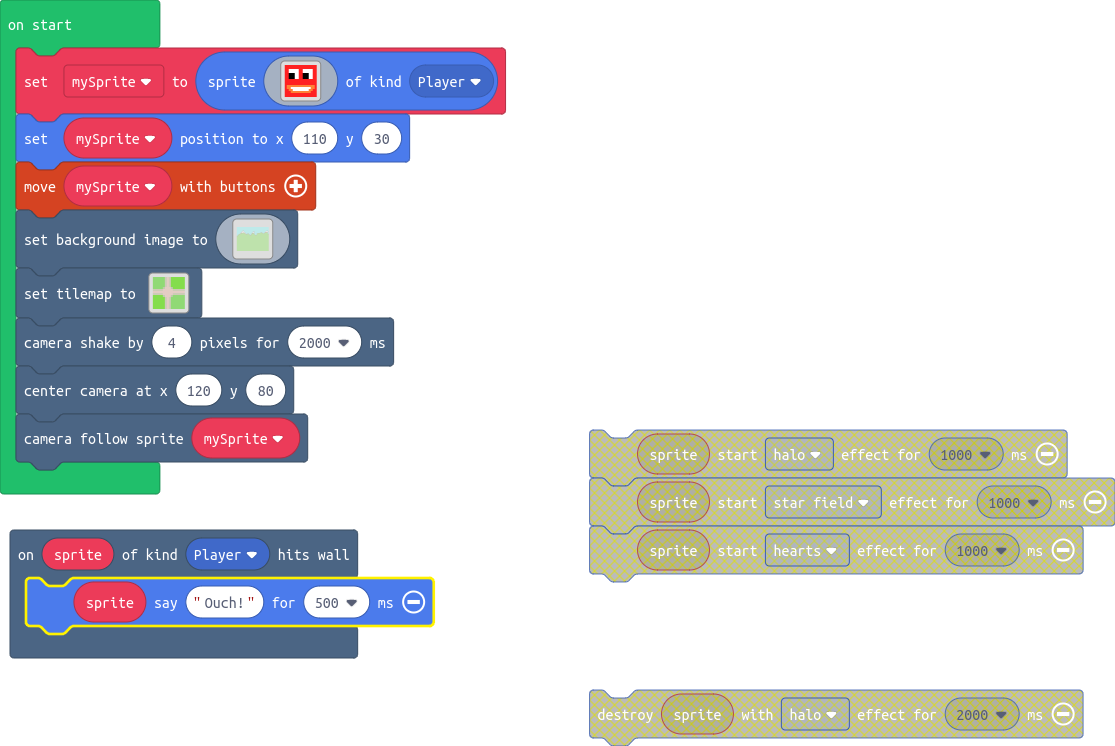
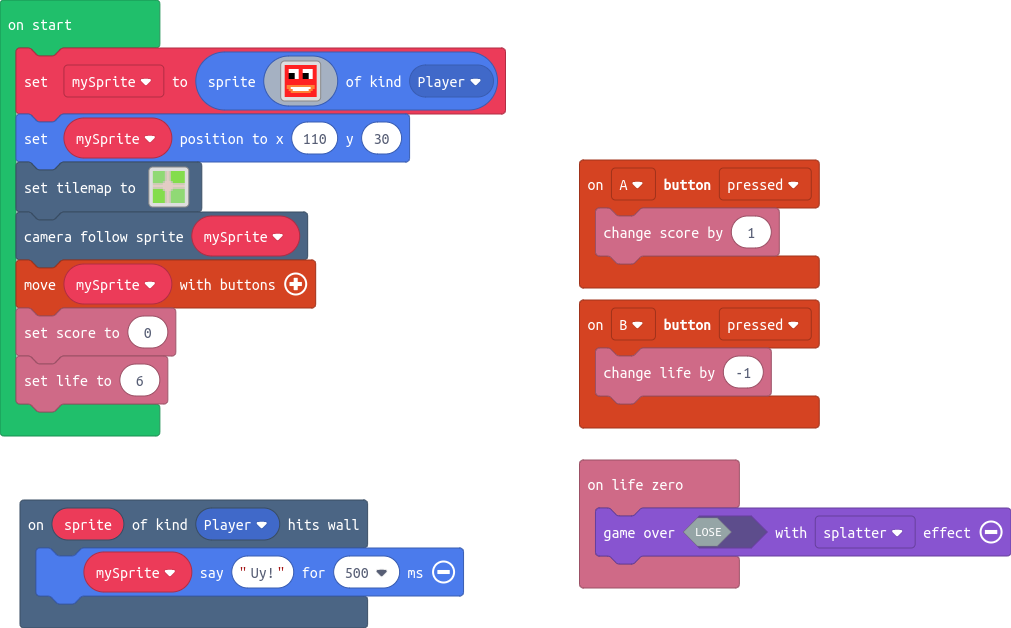
clase 9 - Game Over y puntuación

diff --git a/main.ts b/main.ts
@@ -19,10 +19,20 @@ namespace myTiles {
 . . . . . . . . . . . . . . . . 
 `
 }
-scene.onHitWall(SpriteKind.Player, function (sprite) {
-    sprite.say("Ouch!", 500)
+controller.B.onEvent(ControllerButtonEvent.Pressed, function () {
+    info.changeLifeBy(-1)
 })
-let mySprite = sprites.create(img`
+scene.onHitWall(SpriteKind.Player, function (sprite) {
+    mySprite.say("Uy!", 500)
+})
+controller.A.onEvent(ControllerButtonEvent.Pressed, function () {
+    info.changeScoreBy(1)
+})
+info.onLifeZero(function () {
+    game.over(false, effects.splatter)
+})
+let mySprite: Sprite = null
+mySprite = sprites.create(img`
 2 2 2 2 2 2 2 2 2 2 2 2 2 2 2 2 
 2 2 2 2 2 2 2 2 2 2 2 2 2 2 2 2 
 2 2 1 1 1 1 1 2 2 1 1 1 1 1 2 2 
@@ -41,129 +51,6 @@ let mySprite = sprites.create(img`
 2 2 2 2 2 2 2 2 2 2 2 2 2 2 2 2 
 `, SpriteKind.Player)
 mySprite.setPosition(110, 30)
-controller.moveSprite(mySprite)
-scene.setBackgroundImage(img`
-9 9 9 9 9 9 9 9 9 9 9 9 9 9 9 9 9 9 9 9 9 9 9 9 9 9 9 9 9 9 9 9 9 9 9 9 9 9 9 9 9 9 9 9 9 9 9 9 9 9 9 9 9 9 9 9 9 9 9 9 9 9 9 9 9 9 9 9 9 9 9 9 9 9 9 9 9 9 9 9 9 9 9 9 9 9 9 9 9 9 9 9 9 9 9 9 9 9 9 9 9 9 9 9 9 9 9 9 9 9 9 9 9 9 9 9 9 9 9 9 9 9 9 9 9 9 9 9 9 9 9 9 9 9 9 9 9 9 9 9 9 9 9 9 9 9 9 9 9 9 9 9 9 9 9 9 9 9 9 9 
-9 9 9 9 9 9 9 9 9 9 9 9 9 9 9 9 9 9 9 9 9 9 9 9 9 9 9 9 9 9 9 9 9 9 9 9 9 9 9 9 9 9 9 9 9 9 9 9 9 9 9 9 9 9 9 9 9 9 9 9 9 9 9 9 9 9 9 9 9 9 9 9 9 9 9 9 9 9 9 9 9 9 9 9 9 9 9 9 9 9 9 9 9 9 9 9 9 9 9 9 9 9 9 9 9 9 9 9 9 9 9 9 9 9 9 9 9 9 9 9 9 9 9 9 9 9 9 9 9 9 9 9 9 9 9 9 9 9 9 9 9 9 9 9 9 9 9 9 9 9 9 9 9 9 9 9 9 9 9 9 
-9 9 9 9 9 9 9 9 9 9 9 9 9 9 9 9 9 9 9 9 9 9 9 9 9 9 9 9 9 9 9 9 9 9 9 9 9 9 9 9 9 9 9 9 9 9 9 9 9 9 9 9 9 9 9 9 9 9 9 9 9 9 9 9 9 9 9 9 9 9 9 9 9 9 9 9 9 9 9 9 9 9 9 9 9 9 9 9 9 9 9 9 9 9 9 9 9 9 9 9 9 9 9 9 9 9 9 9 9 9 9 9 9 9 9 9 9 9 9 9 9 9 9 9 9 9 9 9 9 9 9 9 9 9 9 9 9 9 9 9 9 9 9 9 9 9 9 9 9 9 9 9 9 9 9 9 9 9 9 9 
-9 9 9 9 9 9 9 9 9 9 9 9 9 9 9 9 9 9 9 9 9 9 9 9 9 9 9 9 9 9 9 9 9 9 9 9 9 9 9 9 9 9 9 9 9 9 9 9 9 9 9 9 9 9 9 9 9 9 9 9 9 9 9 9 9 9 9 9 9 9 9 9 9 9 9 9 9 9 9 9 9 9 9 9 9 9 9 9 9 9 9 9 9 9 9 9 9 9 9 9 9 9 9 9 9 9 9 9 9 9 9 9 9 9 9 9 9 9 9 9 9 9 9 9 9 9 9 9 9 9 9 9 9 9 9 9 9 9 9 9 9 9 9 9 9 9 9 9 9 9 9 9 9 9 9 9 9 9 9 9 
-9 9 9 9 9 9 9 9 9 9 9 9 9 9 9 9 9 9 9 9 9 9 9 9 9 9 9 9 9 9 9 9 9 9 9 9 9 9 9 9 9 9 9 9 9 9 9 9 9 9 9 9 9 9 9 9 9 9 9 9 9 9 9 9 9 9 9 9 9 9 9 9 9 9 9 9 9 9 9 9 9 9 9 9 9 9 9 9 9 9 9 9 9 9 9 9 9 9 9 9 9 9 9 9 9 9 9 9 9 9 9 9 9 9 9 9 9 9 9 9 9 9 9 9 9 9 9 9 9 9 9 9 9 9 9 9 9 9 9 9 9 9 9 9 9 9 9 9 9 9 9 9 9 9 9 9 9 9 9 9 
-9 9 9 9 9 9 9 9 9 9 9 9 9 9 9 9 9 9 9 9 9 9 9 9 9 9 9 9 9 9 9 9 9 9 9 9 9 9 9 9 9 9 9 9 9 9 9 9 9 9 9 9 9 9 9 9 9 9 9 9 9 9 9 9 9 9 9 9 9 9 9 9 9 9 9 9 9 9 9 9 9 9 9 9 9 9 9 9 9 9 9 9 9 9 9 9 9 9 9 9 9 9 9 9 9 9 9 9 9 9 9 9 9 9 9 9 9 9 9 9 9 9 9 9 9 9 9 9 9 9 9 9 9 9 9 9 9 9 9 9 9 9 9 9 9 9 9 9 9 9 9 9 9 9 9 9 9 9 9 9 
-9 9 9 9 9 9 9 9 9 9 9 9 9 9 9 9 9 9 9 9 9 9 9 9 9 9 9 9 9 9 9 9 9 9 9 9 9 9 9 9 9 9 9 9 9 9 9 9 9 9 9 9 9 9 9 9 9 9 9 9 9 9 9 9 9 9 9 9 9 9 9 9 9 9 9 9 9 9 9 9 9 9 9 9 9 9 9 9 9 9 9 9 9 9 9 9 9 9 9 9 9 9 9 9 9 9 9 9 9 9 9 9 9 9 9 9 9 9 9 9 9 9 9 9 9 9 9 9 9 9 9 9 9 9 9 9 9 9 9 9 9 9 9 9 9 9 9 9 9 9 9 9 9 9 9 9 9 9 9 9 
-9 9 9 9 9 9 9 9 9 9 9 9 9 9 9 9 9 9 9 9 9 9 9 9 9 9 9 9 9 9 9 9 9 9 9 9 9 9 9 9 9 9 9 9 9 9 9 9 9 9 9 9 9 9 9 9 9 9 9 9 9 9 9 9 9 9 9 9 9 9 9 9 9 9 9 9 9 9 9 9 9 9 9 9 9 9 9 9 9 9 9 9 9 9 9 9 9 9 9 9 9 9 9 9 9 9 9 9 9 9 9 9 9 9 9 9 9 9 9 9 9 9 9 9 9 9 9 9 9 9 9 9 9 9 9 9 9 9 9 9 9 9 9 9 9 9 9 9 9 9 9 9 9 9 9 9 9 9 9 9 
-9 9 9 9 9 9 9 9 9 9 9 9 9 9 9 9 9 9 9 9 9 9 9 9 9 9 9 9 9 9 9 9 9 9 9 9 9 9 9 9 9 9 9 9 9 9 9 9 9 9 9 9 9 9 9 9 9 9 9 9 9 9 9 9 9 9 9 9 9 9 9 9 9 9 9 9 9 9 9 9 9 9 9 9 9 9 9 9 9 9 9 9 9 9 9 9 9 9 9 9 9 9 9 9 9 9 9 9 9 9 9 9 9 9 9 9 9 9 9 9 9 9 9 9 9 9 9 9 9 9 9 9 9 9 9 9 9 9 9 9 9 9 9 9 9 9 9 9 9 9 9 9 9 9 9 9 9 9 9 9 
-9 9 9 9 9 9 9 9 9 9 9 9 9 9 9 9 9 9 9 9 9 9 9 9 9 9 9 9 9 9 9 9 9 9 9 9 9 9 9 9 9 9 9 9 9 9 9 9 9 9 9 9 9 9 9 9 9 9 9 9 9 9 9 9 9 9 9 9 9 9 9 9 9 9 9 9 9 9 9 9 9 9 9 9 9 9 9 9 9 9 9 9 9 9 9 9 9 9 9 9 9 9 9 9 9 9 9 9 9 9 9 9 9 9 9 9 9 9 9 9 9 9 9 9 9 9 9 9 9 9 9 9 9 9 9 9 9 9 9 9 9 9 9 9 9 9 9 9 9 9 9 9 9 9 9 9 9 9 9 9 
-9 9 9 9 9 9 9 9 9 9 9 9 9 9 9 9 9 9 9 9 9 9 9 9 9 9 9 9 9 9 9 9 9 9 9 9 9 9 9 9 9 9 9 9 9 9 9 9 9 9 9 9 9 9 9 9 9 9 9 9 9 9 9 9 9 9 9 9 9 9 9 9 9 9 9 9 9 9 9 9 9 9 9 9 9 9 9 9 9 9 9 9 9 9 9 9 9 9 9 9 9 9 9 9 9 9 9 9 9 9 9 9 9 9 9 9 9 9 9 9 9 9 9 9 9 9 9 9 9 9 9 9 9 9 9 9 9 9 9 9 9 9 9 9 9 9 9 9 9 9 9 9 9 9 9 9 9 9 9 9 
-9 9 9 9 9 9 9 9 9 9 9 9 9 9 9 9 9 9 9 9 9 9 9 9 9 9 9 9 9 9 9 9 9 9 9 9 9 9 9 9 9 9 9 9 9 9 9 9 9 9 9 9 9 9 9 9 9 9 9 9 9 9 9 9 9 9 9 9 9 9 9 9 9 9 9 9 9 9 9 9 9 9 9 9 9 9 9 9 9 9 9 9 9 9 9 9 9 9 9 9 9 9 9 9 9 9 9 9 9 9 9 9 9 9 9 9 9 9 9 9 9 9 9 9 9 9 9 9 9 9 9 9 9 9 9 9 9 9 9 9 9 9 9 9 9 9 9 9 9 9 9 9 9 9 9 9 9 9 9 9 
-9 9 9 9 9 9 9 9 9 9 9 9 9 9 9 9 9 9 9 9 9 9 9 9 9 9 9 9 9 9 9 9 9 9 9 9 9 9 9 9 9 9 9 9 9 9 9 9 9 9 9 9 9 9 9 9 9 9 9 9 9 9 9 9 9 9 9 9 9 9 9 9 9 9 9 9 9 9 9 9 9 9 9 9 9 9 9 9 9 9 9 9 9 9 9 9 9 9 9 9 9 9 9 9 9 9 9 9 9 9 9 9 9 9 9 9 9 9 9 9 9 9 9 9 9 9 9 9 9 9 9 9 9 9 9 9 9 9 9 9 9 9 9 9 9 9 9 9 9 9 9 9 9 9 9 9 9 9 9 9 
-9 9 9 9 9 9 9 9 9 9 9 9 9 9 9 9 9 9 9 9 9 9 9 9 9 9 9 9 9 9 9 9 9 9 9 9 9 9 9 9 9 9 9 9 9 9 9 9 9 9 9 9 9 9 9 9 9 9 9 9 9 9 9 9 9 9 9 9 9 9 9 9 9 9 9 9 9 9 9 9 9 9 9 9 9 9 9 9 9 9 9 9 9 9 9 9 9 9 9 9 9 9 9 9 9 9 9 9 9 9 9 9 9 9 9 9 9 9 9 9 9 9 9 9 9 9 9 9 9 9 9 9 9 9 9 9 9 9 9 9 9 9 9 9 9 9 9 9 9 9 9 9 9 9 9 9 9 9 9 9 
-9 9 9 9 9 9 9 9 9 9 9 9 9 9 9 9 9 9 9 9 9 9 9 9 9 9 9 9 9 9 9 9 9 9 9 9 9 9 9 9 9 9 9 9 9 9 9 9 9 9 9 9 9 9 9 9 9 9 9 9 9 9 9 9 9 9 9 9 9 9 9 9 9 9 9 9 9 9 9 9 9 9 9 9 9 9 9 9 9 9 9 9 9 9 9 9 9 9 9 9 9 9 9 9 9 9 9 9 9 9 9 9 9 9 9 9 9 9 9 9 9 9 9 9 9 9 9 9 9 9 9 9 9 9 9 9 9 9 9 9 9 9 9 9 9 9 9 9 9 9 9 9 9 9 9 9 9 9 9 9 
-9 9 9 9 9 9 9 9 9 9 9 9 9 9 9 9 9 9 9 9 9 9 9 9 9 9 9 9 9 9 9 9 9 9 9 9 9 9 9 9 9 9 9 9 9 9 9 9 9 9 9 9 9 9 9 9 9 9 9 9 9 9 9 9 9 9 9 9 9 9 9 9 9 9 9 9 9 9 9 9 9 9 9 9 9 9 9 9 9 9 9 9 9 9 9 9 9 9 9 9 9 9 9 9 9 9 9 9 9 9 9 9 9 9 9 9 9 9 9 9 9 9 9 9 9 9 9 9 9 9 9 9 9 9 9 9 9 9 9 9 9 9 9 9 9 9 9 9 9 9 9 9 9 9 9 9 9 9 9 9 
-9 9 9 9 9 9 9 9 9 9 9 9 9 9 9 9 9 9 9 9 9 9 9 9 9 9 9 9 9 9 9 9 9 9 9 9 9 9 9 9 9 9 9 9 9 9 9 9 9 9 9 9 9 9 9 9 9 9 9 9 9 9 9 9 9 9 9 9 9 9 9 9 9 9 9 9 9 9 9 9 9 9 9 9 9 9 9 9 9 9 9 9 9 9 9 9 9 9 9 9 9 9 9 9 9 9 9 9 9 9 9 9 9 9 9 9 9 9 9 9 9 9 9 9 9 9 9 9 9 9 9 9 9 9 9 9 9 9 9 9 9 9 9 9 9 9 9 9 9 9 9 9 9 9 9 9 9 9 9 9 
-9 9 9 9 9 9 9 9 9 9 9 9 9 9 9 9 9 9 9 9 9 9 9 9 9 9 9 9 9 9 9 9 9 e 9 9 9 9 9 9 9 9 9 9 9 9 9 9 9 9 9 9 9 9 9 9 9 9 9 9 9 9 9 9 9 9 9 9 9 9 9 9 9 9 9 9 9 9 9 9 9 9 9 9 9 9 9 9 9 9 9 9 9 9 9 9 9 9 9 9 9 9 9 9 9 9 9 9 9 9 9 9 9 9 9 9 9 9 9 9 9 9 9 9 9 9 9 9 9 9 9 9 9 9 9 9 9 9 9 9 9 9 9 9 9 9 9 9 9 9 e e 9 9 9 9 9 9 9 9 
-9 9 9 9 9 9 9 9 9 9 9 9 9 9 9 9 9 9 9 9 9 9 9 9 9 9 9 9 9 9 9 e e 1 e 9 9 9 9 9 9 9 9 9 9 9 9 9 9 9 9 9 9 9 9 9 9 9 9 9 9 9 9 9 9 9 9 9 9 9 9 9 9 9 9 9 9 9 9 9 9 9 9 9 9 9 9 9 9 9 9 9 9 9 9 9 9 9 9 9 9 9 9 9 9 9 9 9 9 9 9 9 9 9 9 9 9 9 9 9 9 9 9 9 9 9 9 9 9 9 9 9 9 9 9 9 9 9 9 9 9 9 9 9 9 9 9 9 9 e e e 9 9 9 9 9 9 9 9 
-9 9 9 9 9 9 9 9 9 9 9 9 9 9 9 9 9 9 9 9 9 9 9 9 9 9 9 9 9 9 e e 1 1 e 9 9 9 9 9 9 9 9 9 9 9 9 9 9 9 9 9 9 9 9 9 9 9 9 9 9 9 9 9 9 9 9 9 9 9 9 9 9 9 9 9 9 9 9 9 9 9 9 9 9 9 9 9 9 9 9 9 9 9 9 9 9 9 9 9 9 9 9 9 9 9 9 9 9 9 9 9 9 9 9 9 9 9 9 9 9 9 9 9 9 9 9 9 9 9 9 9 9 9 9 9 9 9 9 9 9 9 9 9 9 9 9 9 e 1 1 1 e e e 9 9 9 9 9 
-9 9 9 9 9 9 9 9 9 9 9 9 9 9 9 9 9 9 9 9 9 9 9 9 9 9 9 9 9 e 1 1 1 1 e 9 9 9 9 9 9 9 9 9 9 9 9 9 9 9 9 9 9 9 9 9 9 9 9 9 9 9 9 9 9 9 9 9 9 9 9 9 9 9 9 9 9 9 9 9 9 9 9 9 9 9 9 9 9 9 9 9 9 9 9 9 9 9 9 9 9 9 9 9 9 9 9 9 9 9 9 9 9 9 9 9 9 9 9 9 9 9 9 9 9 9 9 9 9 9 9 9 9 9 9 9 9 9 9 9 9 9 9 9 9 9 9 e 1 1 1 1 1 1 e e 9 9 9 9 
-9 9 9 9 9 9 9 9 9 9 9 9 9 9 9 9 9 9 9 9 9 9 9 9 9 9 9 9 e 1 1 1 1 1 1 e 9 9 9 9 9 9 9 9 9 9 9 9 9 9 9 9 9 9 9 9 9 9 9 9 9 9 9 9 9 9 9 9 9 9 9 9 9 9 9 9 9 9 9 9 9 9 9 9 9 9 9 9 9 9 9 9 9 9 9 9 9 9 9 9 9 9 9 9 9 9 9 9 9 9 9 9 9 9 9 9 9 9 9 9 9 9 9 9 9 9 9 9 9 9 9 9 9 9 9 9 9 9 9 9 9 9 9 9 9 9 e 1 1 1 1 1 1 1 1 e 9 9 9 9 
-9 9 9 9 9 9 9 9 9 9 9 9 9 9 9 9 9 9 9 9 9 9 9 9 9 9 9 e 1 1 1 1 1 1 1 e 9 9 9 9 9 9 9 9 9 9 9 9 9 9 9 9 9 9 9 9 9 9 9 9 9 9 9 9 9 9 9 9 9 9 9 9 9 9 9 9 9 9 9 9 9 9 9 9 9 e e e 9 9 9 9 9 9 9 9 9 9 9 9 9 9 9 9 9 9 9 9 9 9 9 9 9 9 9 9 9 9 9 9 9 9 9 9 9 9 9 9 9 9 9 9 9 9 9 9 9 9 9 9 9 9 9 9 9 e 1 1 1 1 1 1 1 1 1 1 e 9 9 9 
-9 9 9 9 9 9 9 9 9 9 9 9 9 9 9 9 9 9 9 9 9 9 9 9 9 e e 1 1 1 1 1 1 1 1 e 9 9 9 9 9 9 9 9 9 9 9 9 9 9 9 9 9 9 9 9 9 9 9 9 9 9 9 9 9 9 9 9 9 9 9 9 9 9 9 9 9 9 9 9 9 9 e e e 1 1 e 9 9 9 9 9 9 9 9 9 9 9 9 9 9 9 9 9 9 9 9 9 9 9 9 9 9 9 9 9 9 9 9 9 9 9 9 9 9 9 9 9 9 9 9 9 9 9 9 9 9 9 9 9 9 9 9 e 1 1 1 1 1 1 1 1 1 1 1 e 9 9 9 
-9 9 9 9 9 9 9 9 9 9 9 9 9 9 9 9 9 9 9 9 9 9 9 9 e 1 1 1 1 1 1 1 1 1 1 1 e 9 9 9 9 9 9 9 9 9 9 9 9 9 9 9 9 9 9 9 9 9 9 9 9 9 9 9 9 9 9 9 9 9 9 9 9 9 9 9 9 9 9 9 e e e 1 1 1 1 e 9 9 9 9 9 9 9 9 9 9 9 9 9 9 9 9 9 9 9 9 9 9 9 9 9 9 9 9 9 9 9 9 9 9 9 9 9 9 9 9 9 9 9 9 9 9 9 9 9 9 9 9 9 9 9 e 1 1 1 1 1 1 1 1 1 1 1 1 e 9 9 9 
-9 9 9 9 9 9 9 9 9 9 9 9 9 9 9 9 9 9 9 9 9 9 9 9 e 1 1 1 1 1 1 1 1 1 1 1 e e 9 9 9 9 9 9 9 9 9 9 9 9 9 9 9 9 9 9 9 9 9 9 9 9 9 9 9 9 9 9 9 9 9 9 9 9 9 9 9 9 9 9 e 1 1 1 1 1 1 e 9 9 9 9 9 9 9 9 9 9 9 9 9 9 9 9 9 9 9 9 9 9 9 9 9 9 9 9 9 9 9 9 9 9 9 9 9 9 9 9 9 9 9 9 9 9 9 9 9 9 9 9 9 9 e 1 1 1 1 1 1 1 1 1 1 1 1 e 9 9 9 9 
-9 9 9 9 9 9 9 9 9 9 9 9 9 9 9 9 9 9 9 9 9 9 9 e e 1 1 1 1 1 1 1 1 1 1 1 1 e e 9 9 9 9 9 9 9 9 9 9 9 9 9 9 9 9 9 9 9 9 9 9 9 9 9 9 9 9 9 9 9 9 9 9 9 9 9 9 9 9 e 1 1 1 1 1 1 1 e 9 9 9 9 9 9 9 9 9 9 9 9 9 9 9 9 9 9 9 9 9 9 9 9 9 9 9 9 9 9 9 9 9 9 9 e e e 9 9 9 9 9 9 9 9 9 9 9 9 9 9 9 e e 1 1 1 e e e e e 1 e e 1 e 9 9 9 9 
-9 9 9 9 9 9 9 9 9 9 9 9 9 9 9 9 9 9 9 9 9 9 e e 1 1 1 1 1 1 1 1 1 1 1 1 1 1 1 e e 9 9 9 9 9 9 9 9 9 9 9 9 9 9 9 9 9 9 9 9 9 9 9 9 9 9 9 9 9 9 9 9 9 9 9 9 9 9 e 1 1 1 1 1 1 e 9 9 9 9 9 9 9 9 9 9 9 9 9 9 9 9 9 9 9 9 9 9 9 9 9 9 9 9 9 9 9 9 9 9 9 e 7 7 e 9 9 9 9 9 9 9 9 9 9 9 9 9 9 e e e 1 1 e e 7 7 7 e e 7 e e e 9 9 9 9 
-9 9 9 9 9 9 9 9 9 9 9 9 9 9 9 9 9 9 9 9 9 9 e 1 1 1 1 1 1 1 1 e e e 1 1 1 1 1 1 1 e 9 9 9 9 9 9 9 9 9 9 9 9 9 9 9 9 9 9 9 9 9 9 9 9 9 9 9 9 9 9 9 9 9 9 9 9 e 1 1 1 1 1 1 1 e 9 9 9 9 9 9 9 9 9 9 9 9 9 9 9 9 9 9 9 9 9 9 9 9 9 9 9 9 9 9 9 9 e e e e 7 7 7 e 9 9 9 9 9 9 9 9 9 9 9 9 e e e e e e e 7 7 7 7 7 7 7 7 e 9 9 9 9 9 
-9 9 9 9 9 9 9 9 9 9 9 9 9 9 9 9 9 9 9 9 9 e 1 1 1 1 1 1 1 e e 7 7 e e e 1 1 1 1 1 1 e 9 9 9 9 9 9 9 9 9 9 9 9 9 9 9 9 9 9 9 9 9 9 9 9 9 9 9 9 9 9 9 9 9 9 e 1 1 1 1 1 1 1 1 e 9 9 9 9 9 9 9 9 9 9 9 9 9 9 9 9 9 9 9 9 9 9 9 9 9 9 9 9 e e e e 7 7 7 7 7 7 7 7 e 9 9 9 9 9 9 9 9 9 9 e e e 7 7 7 7 7 7 7 7 7 7 7 7 7 e 9 9 9 9 9 
-9 9 9 9 9 9 9 9 9 9 9 9 9 9 9 9 9 9 9 9 e e 1 1 1 1 1 e e 7 7 7 7 7 7 e e 1 1 1 1 1 1 e 9 9 9 9 9 9 9 9 9 9 9 9 9 9 9 9 9 9 9 9 9 9 9 9 9 9 9 9 9 9 9 9 e e e 1 1 1 1 e e e e 9 9 9 9 9 9 9 9 9 9 9 9 9 9 9 9 9 9 9 9 9 9 9 9 9 9 e e 7 7 7 7 7 7 7 7 7 7 7 7 7 e 9 9 9 9 9 9 9 9 9 e 7 7 7 7 7 7 7 7 7 7 7 7 7 7 7 7 e 9 9 9 9 
-9 9 9 9 9 9 9 9 9 9 9 9 9 9 9 9 9 9 9 e 1 e e e e e e e 7 7 7 7 7 7 7 7 e e e e e 1 1 1 e 9 9 9 9 9 9 9 9 9 9 9 9 9 9 9 9 9 9 9 9 9 9 9 9 9 9 9 9 9 9 e e e e e 1 1 e e 7 7 e 9 9 9 9 9 9 9 9 9 9 9 9 9 9 9 9 9 e e e e e e e e e 7 7 7 7 7 7 7 7 7 7 7 7 7 7 7 e e 9 9 9 9 9 9 9 e 7 7 7 7 7 7 7 7 7 7 7 7 7 7 7 7 7 e 9 9 9 9 
-9 9 9 9 9 9 9 9 9 9 9 9 9 9 9 9 9 9 e 1 e e 7 7 7 7 7 7 7 7 7 7 7 7 7 7 7 7 7 7 e e 1 1 e 9 9 9 9 9 9 9 9 9 e e e e 9 9 9 9 9 9 9 9 9 9 9 9 9 9 9 9 9 e 7 7 7 e e e e 7 7 7 e 9 9 9 9 9 9 9 9 9 9 9 9 9 9 9 e e 7 7 7 7 7 7 7 7 7 7 7 7 7 7 7 7 7 7 7 7 7 7 7 7 7 e e 9 9 9 e e e 7 7 7 7 7 7 7 7 7 7 7 7 7 7 7 7 7 7 7 e 9 9 9 
-9 9 9 9 9 9 9 9 9 9 9 9 9 9 9 9 9 e e e e 7 7 7 7 7 7 7 7 7 7 7 7 7 7 7 7 7 7 7 7 7 e e e 9 9 9 9 9 9 9 9 e e 7 7 7 e 9 9 9 9 9 9 9 9 9 9 9 9 9 9 9 e 7 7 7 7 7 7 7 7 7 7 7 e 9 9 9 9 9 9 9 9 9 9 9 9 9 9 e 7 7 7 7 7 7 7 7 7 7 7 7 7 7 7 7 7 7 7 7 7 7 7 7 7 7 7 7 7 e e e 7 7 7 7 7 7 7 7 7 7 7 7 7 7 7 7 7 7 7 7 7 7 e 9 9 9 
-9 9 9 9 9 9 9 9 9 9 9 9 9 9 9 9 e 7 7 7 7 7 7 7 7 7 7 7 7 7 7 7 7 7 7 7 7 7 7 7 7 7 7 7 7 e 9 9 9 9 9 9 e e 7 7 7 7 7 e 9 9 9 9 9 9 9 9 9 9 9 9 9 9 e 7 7 7 7 7 7 7 7 7 7 7 e e 9 9 9 9 9 9 9 9 9 9 9 9 9 e 7 7 7 7 7 7 7 7 7 7 7 7 7 7 7 7 7 7 7 7 7 7 7 7 7 7 7 7 7 7 7 7 7 7 7 7 7 7 7 7 7 7 7 7 7 7 7 7 7 7 7 7 7 7 e 9 9 9 
-9 9 9 9 9 9 9 9 9 9 9 9 9 9 e e 7 7 7 7 7 7 7 7 7 7 7 7 7 7 7 7 7 7 7 7 7 7 7 7 7 7 7 7 7 e e 9 9 9 9 9 e 7 7 7 7 7 7 7 e 9 9 9 9 9 9 9 9 9 9 9 9 e 7 7 7 7 7 7 7 7 7 7 7 7 7 7 e 9 9 9 9 9 9 9 9 9 9 9 e 7 7 7 7 7 7 7 7 7 7 7 7 7 7 7 7 7 7 7 7 7 7 7 7 7 7 7 7 7 7 7 7 7 7 7 7 7 7 7 7 7 7 7 7 7 7 7 7 7 7 7 7 7 7 7 7 e 9 9 
-9 9 9 9 9 9 9 9 9 e e e e e 7 7 7 7 7 7 7 7 7 7 7 7 7 7 7 7 7 7 7 7 7 7 7 7 7 7 7 7 7 7 7 7 e e 9 9 9 e 7 7 7 7 7 7 7 7 7 e 9 9 9 9 9 9 9 9 9 9 e e 7 7 7 7 7 7 7 7 7 7 7 7 7 7 e e 9 9 9 9 9 9 9 9 9 9 e 7 7 7 7 7 7 7 7 7 7 7 7 7 7 7 7 7 7 7 7 7 7 7 7 7 7 7 7 7 7 7 7 7 7 7 7 7 7 7 7 7 7 7 7 7 7 7 7 7 7 7 7 7 7 7 7 7 e 9 
-9 9 9 9 9 9 9 9 9 e 7 7 7 7 7 7 7 7 7 7 7 7 7 7 7 7 7 7 7 7 7 7 7 7 7 7 7 7 7 7 7 7 7 7 7 7 7 e e 9 9 e 7 7 7 7 7 7 7 7 7 7 e 9 9 9 9 9 9 9 9 9 e 7 7 7 7 7 7 7 7 7 7 7 7 7 7 7 7 e 9 9 9 9 9 9 9 9 9 e 7 7 7 7 7 7 7 7 7 7 7 7 7 7 7 7 7 7 7 7 7 7 7 7 7 7 7 7 7 7 7 7 7 7 7 7 7 7 7 7 7 7 7 7 7 7 7 7 7 7 7 7 7 7 7 7 7 7 7 e 
-9 9 9 9 9 9 9 9 e 7 7 7 7 7 7 7 7 7 7 7 7 7 7 7 7 7 7 7 7 7 7 7 7 7 7 7 7 7 7 7 7 7 7 7 7 7 7 7 e 9 e 7 7 7 7 7 7 7 7 7 7 7 e e 9 9 9 9 9 9 9 9 e 7 7 7 7 7 7 7 7 7 7 7 7 7 7 7 7 7 e 9 9 9 9 9 9 9 9 e 7 7 7 7 7 7 7 7 7 7 7 7 7 7 7 7 7 7 7 7 7 7 7 7 7 7 7 7 7 7 7 7 7 7 7 7 7 7 7 7 7 7 7 7 7 7 7 7 7 7 7 7 7 7 7 7 7 7 7 e 
-9 9 9 9 9 9 9 e 7 7 7 7 7 7 7 7 7 7 7 7 7 7 7 7 7 7 7 7 7 7 7 7 7 7 7 7 7 7 7 7 7 7 7 7 7 7 7 7 7 e 7 7 7 7 7 7 7 7 7 7 7 7 7 7 e 9 9 9 9 9 9 e 7 7 7 7 7 7 7 7 7 7 7 7 7 7 7 7 7 7 7 e 9 9 9 9 9 9 e 7 7 7 7 7 7 7 7 7 7 7 7 7 7 7 7 7 7 7 7 7 7 7 7 7 7 7 7 7 7 7 7 7 7 7 7 7 7 7 7 7 7 7 7 7 7 7 7 7 7 7 7 7 7 7 7 7 7 7 7 7 
-9 9 9 9 9 9 e e 7 7 7 7 7 7 7 7 7 7 7 7 7 7 7 7 7 7 7 7 7 7 7 7 7 7 7 7 7 7 7 7 7 7 7 7 7 7 7 7 7 7 7 7 7 7 7 7 7 7 7 7 7 7 7 7 7 e 9 9 9 9 e e 7 7 7 7 7 7 7 7 7 7 7 7 7 7 7 7 7 7 7 e e 9 9 9 9 9 e 7 7 7 7 7 7 7 7 7 7 7 7 7 7 7 7 7 7 7 7 7 7 7 7 7 7 7 7 7 7 7 7 7 7 7 7 7 7 7 7 7 7 7 7 7 7 7 7 7 7 7 7 7 7 7 7 7 7 7 7 7 
-9 9 9 9 9 e e 7 7 7 7 7 7 7 7 7 7 7 7 7 7 7 7 7 7 7 7 7 7 7 7 7 7 7 7 7 7 7 7 7 7 7 7 7 7 7 7 7 7 7 7 7 7 7 7 7 7 7 7 7 7 7 7 7 7 e e 9 9 9 e 7 7 7 7 7 7 7 7 7 7 7 7 7 7 7 7 7 7 7 7 7 7 e 9 9 9 e 7 7 7 7 7 7 7 7 7 7 7 7 7 7 7 7 7 7 7 7 7 7 7 7 7 7 7 7 7 7 7 7 7 7 7 7 7 7 7 7 7 7 7 7 7 7 7 7 7 7 7 7 7 7 7 7 7 7 7 7 7 7 
-9 9 9 9 e e 7 7 7 7 7 7 7 7 7 7 7 7 7 7 7 7 7 7 7 7 7 7 7 7 7 7 7 7 7 7 7 7 7 7 7 7 7 7 7 7 7 7 7 7 7 7 7 7 7 7 7 7 7 7 7 7 7 7 7 7 7 e e e 7 7 7 7 7 7 7 7 7 7 7 7 7 7 7 7 7 7 7 7 7 7 7 7 e 9 e e 7 7 7 7 7 7 7 7 7 7 7 7 7 7 7 7 7 7 7 7 7 7 7 7 7 7 7 7 7 7 7 7 7 7 7 7 7 7 7 7 7 7 7 7 7 7 7 7 7 7 7 7 7 7 7 7 7 7 7 7 7 7 
-9 9 9 e e 7 7 7 7 7 7 7 7 7 7 7 7 7 7 7 7 7 7 7 7 7 7 7 7 7 7 7 7 7 7 7 7 7 7 7 7 7 7 7 7 7 7 7 7 7 7 7 7 7 7 7 7 7 7 7 7 7 7 7 7 7 7 7 7 7 7 7 7 7 7 7 7 7 7 7 7 7 7 7 7 7 7 7 7 7 7 7 7 7 7 e e 7 7 7 7 7 7 7 7 7 7 7 7 7 7 7 7 7 7 7 7 7 7 7 7 7 7 7 7 7 7 7 7 7 7 7 7 7 7 7 7 7 7 7 7 7 7 7 7 7 7 7 7 7 7 7 7 7 7 7 7 7 7 7 
-9 9 9 e 7 7 7 7 7 7 7 7 7 7 7 7 7 7 7 7 7 7 7 7 7 7 7 7 7 7 7 7 7 7 7 7 7 7 7 7 7 7 7 7 7 7 7 7 7 7 7 7 7 7 7 7 7 7 7 7 7 7 7 7 7 7 7 7 7 7 7 7 7 7 7 7 7 7 7 7 7 7 7 7 7 7 7 7 7 7 7 7 7 7 7 7 7 7 7 7 7 7 7 7 7 7 7 7 7 7 7 7 7 7 7 7 7 7 7 7 7 7 7 7 7 7 7 7 7 7 7 7 7 7 7 7 7 7 7 7 7 7 7 7 7 7 7 7 7 7 7 7 7 7 7 7 7 7 7 7 
-9 9 e 7 7 7 7 7 7 7 7 7 7 7 7 7 7 7 7 7 7 7 7 7 7 7 7 7 7 7 7 7 7 7 7 7 7 7 7 7 7 7 7 7 7 7 7 7 7 7 7 7 7 7 7 7 7 7 7 7 7 7 7 7 7 7 7 7 7 7 7 7 7 7 7 7 7 7 7 7 7 7 7 7 7 7 7 7 7 7 7 7 7 7 7 7 7 7 7 7 7 7 7 7 7 7 7 7 7 7 7 7 7 7 7 7 7 7 7 7 7 7 7 7 7 7 7 7 7 7 7 7 7 7 7 7 7 7 7 7 7 7 7 7 7 7 7 7 7 7 7 7 7 7 7 7 7 7 7 7 
-9 9 e 7 7 7 7 7 7 7 7 7 7 7 7 7 7 7 7 7 7 7 7 7 7 7 7 7 7 7 7 7 7 7 7 7 7 7 7 7 7 7 7 7 7 7 7 7 7 7 7 7 7 7 7 7 7 7 7 7 7 7 7 7 7 7 7 7 7 7 7 7 7 7 7 7 7 7 7 7 7 7 7 7 7 7 7 7 7 7 7 7 7 7 7 7 7 7 7 7 7 7 7 7 7 7 7 7 7 7 7 7 7 7 7 7 7 7 7 7 7 7 7 7 7 7 7 7 7 7 7 7 7 7 7 7 7 7 7 7 7 7 7 7 7 7 7 7 7 7 7 7 7 7 7 7 7 7 7 7 
-9 e 7 7 7 7 7 7 7 7 7 7 7 7 7 7 7 7 7 7 7 7 7 7 7 7 7 7 7 7 7 7 7 7 7 7 7 7 7 7 7 7 7 7 7 7 7 7 7 7 7 7 7 7 7 7 7 7 7 7 7 7 7 7 7 7 7 7 7 7 7 7 7 7 7 7 7 7 7 7 7 7 7 7 7 7 7 7 7 7 7 7 7 7 7 7 7 7 7 7 7 7 7 7 7 7 7 7 7 7 7 7 7 7 7 7 7 7 7 7 7 7 7 7 7 7 7 7 7 7 7 7 7 7 7 7 7 7 7 7 7 7 7 7 7 7 7 7 7 7 7 7 7 7 7 7 7 7 7 7 
-e e 7 7 7 7 7 7 7 7 7 7 7 7 7 7 7 7 7 7 7 7 7 7 7 7 7 7 7 7 7 7 7 7 7 7 7 7 7 7 7 7 7 7 7 7 7 7 7 7 7 7 7 7 7 7 7 7 7 7 7 7 7 7 7 7 7 7 7 7 7 7 7 7 7 7 7 7 7 7 7 7 7 7 7 7 7 7 7 7 7 7 7 7 7 7 7 7 7 7 7 7 7 7 7 7 7 7 7 7 7 7 7 7 7 7 7 7 7 7 7 7 7 7 7 7 7 7 7 7 7 7 7 7 7 7 7 7 7 7 7 7 7 7 7 7 7 7 7 7 7 7 7 7 7 7 7 7 7 7 
-e 7 7 7 7 7 7 7 7 7 7 7 7 7 7 7 7 7 7 7 7 7 7 7 7 7 7 7 7 7 7 7 7 7 7 7 7 7 7 7 7 7 7 7 7 7 7 7 7 7 7 7 7 7 7 7 7 7 7 7 7 7 7 7 7 7 7 7 7 7 7 7 7 7 7 7 7 7 7 7 7 7 7 7 7 7 7 7 7 7 7 7 7 7 7 7 7 7 7 7 7 7 7 7 7 7 7 7 7 7 7 7 7 7 7 7 7 7 7 7 7 7 7 7 7 7 7 7 7 7 7 7 7 7 7 7 7 7 7 7 7 7 7 7 7 7 7 7 7 7 7 7 7 7 7 7 7 7 7 7 
-7 7 7 7 7 7 7 7 7 7 7 7 7 7 7 7 7 7 7 7 7 7 7 7 7 7 7 7 7 7 7 7 7 7 7 7 7 7 7 7 7 7 7 7 7 7 7 7 7 7 7 7 7 7 7 7 7 7 7 7 7 7 7 7 7 7 7 7 7 7 7 7 7 7 7 7 7 7 7 7 7 7 7 7 7 7 7 7 7 7 7 7 7 7 7 7 7 7 7 7 7 7 7 7 7 7 7 7 7 7 7 7 7 7 7 7 7 7 7 7 7 7 7 7 7 7 7 7 7 7 7 7 7 7 7 7 7 7 7 7 7 7 7 7 7 7 7 7 7 7 7 7 7 7 7 7 7 7 7 7 
-7 7 7 7 7 7 7 7 7 7 7 7 7 7 7 7 7 7 7 7 7 7 7 7 7 7 7 7 7 7 7 7 7 7 7 7 7 7 7 7 7 7 7 7 7 7 7 7 7 7 7 7 7 7 7 7 7 7 7 7 7 7 7 7 7 7 7 7 7 7 7 7 7 7 7 7 7 7 7 7 7 7 7 7 7 7 7 7 7 7 7 7 7 7 7 7 7 7 7 7 7 7 7 7 7 7 7 7 7 7 7 7 7 7 7 7 7 7 7 7 7 7 7 7 7 7 7 7 7 7 7 7 7 7 7 7 7 7 7 7 7 7 7 7 7 7 7 7 7 7 7 7 7 7 7 7 7 7 7 7 
-7 7 7 7 7 7 7 7 7 7 7 7 7 7 7 7 7 7 7 7 7 7 7 7 7 7 7 7 7 7 7 7 7 7 7 7 7 7 7 7 7 7 7 7 7 7 7 7 7 7 7 7 7 7 7 7 7 7 7 7 7 7 7 7 7 7 7 7 7 7 7 7 7 7 7 7 7 7 7 7 7 7 7 7 7 7 7 7 7 7 7 7 7 7 7 7 7 7 7 7 7 7 7 7 7 7 7 7 7 7 7 7 7 7 7 7 7 7 7 7 7 7 7 7 7 7 7 7 7 7 7 7 7 7 7 7 7 7 7 7 7 7 7 7 7 7 7 7 7 7 7 7 7 7 7 7 7 7 7 7 
-7 7 7 7 7 7 7 7 7 7 7 7 7 7 7 7 7 7 7 7 7 7 7 7 7 7 7 7 7 7 7 7 7 7 7 7 7 7 7 7 7 7 7 7 7 7 7 7 7 7 7 7 7 7 7 7 7 7 7 7 7 7 7 7 7 7 7 7 7 7 7 7 7 7 7 7 7 7 7 7 7 7 7 7 7 7 7 7 7 7 7 7 7 7 7 7 7 7 7 7 7 7 7 7 7 7 7 7 7 7 7 7 7 7 7 7 7 7 7 7 7 7 7 7 7 7 7 7 7 7 7 7 7 7 7 7 7 7 7 7 7 7 7 7 7 7 7 7 7 7 7 7 7 7 7 7 7 7 7 7 
-7 7 7 7 7 7 7 7 7 7 7 7 7 7 7 7 7 7 7 7 7 7 7 7 7 7 7 7 7 7 7 7 7 7 7 7 7 7 7 7 7 7 7 7 7 7 7 7 7 7 7 7 7 7 7 7 7 7 7 7 7 7 7 7 7 7 7 7 7 7 7 7 7 7 7 7 7 7 7 7 7 7 7 7 7 7 7 7 7 7 7 7 7 7 7 7 7 7 7 7 7 7 7 7 7 7 7 7 7 7 7 7 7 7 7 7 7 7 7 7 7 7 7 7 7 7 7 7 7 7 7 7 7 7 7 7 7 7 7 7 7 7 7 7 7 7 7 7 7 7 7 7 7 7 7 7 7 7 7 7 
-7 7 7 7 7 7 7 7 7 7 7 7 7 7 7 7 7 7 7 7 7 7 7 7 7 7 7 7 7 7 7 7 7 7 7 7 7 7 7 7 7 7 7 7 7 7 7 7 7 7 7 7 7 7 7 7 7 7 7 7 7 7 7 7 7 7 7 7 7 7 7 7 7 7 7 7 7 7 7 7 7 7 7 7 7 7 7 7 7 7 7 7 7 7 7 7 7 7 7 7 7 7 7 7 7 7 7 7 7 7 7 7 7 7 7 7 7 7 7 7 7 7 7 7 7 7 7 7 7 7 7 7 7 7 7 7 7 7 7 7 7 7 7 7 7 7 7 7 7 7 7 7 7 7 7 7 7 7 7 7 
-7 7 7 7 7 7 7 7 7 7 7 7 7 7 7 7 7 7 7 7 7 7 7 7 7 7 7 7 7 7 7 7 7 7 7 7 7 7 7 7 7 7 7 7 7 7 7 7 7 7 7 7 7 7 7 7 7 7 7 7 7 7 7 7 7 7 7 7 7 7 7 7 7 7 7 7 7 7 7 7 7 7 7 7 7 7 7 7 7 7 7 7 7 7 7 7 7 7 7 7 7 7 7 7 7 7 7 7 7 7 7 7 7 7 7 7 7 7 7 7 7 7 7 7 7 7 7 7 7 7 7 7 7 7 7 7 7 7 7 7 7 7 7 7 7 7 7 7 7 7 7 7 7 7 7 7 7 7 7 7 
-7 7 7 7 7 7 7 7 7 7 7 7 7 7 7 7 7 7 7 7 7 7 7 7 7 7 7 7 7 7 7 7 7 7 7 7 7 7 7 7 7 7 7 7 7 7 7 7 7 7 7 7 7 7 7 7 7 7 7 7 7 7 7 7 7 7 7 7 7 7 7 7 7 7 7 7 7 7 7 7 7 7 7 7 7 7 7 7 7 7 7 7 7 7 7 7 7 7 7 7 7 7 7 7 7 7 7 7 7 7 7 7 7 7 7 7 7 7 7 7 7 7 7 7 7 7 7 7 7 7 7 7 7 7 7 7 7 7 7 7 7 7 7 7 7 7 7 7 7 7 7 7 7 7 7 7 7 7 7 7 
-7 7 7 7 7 7 7 7 7 7 7 7 7 7 7 7 7 7 7 7 7 7 7 7 7 7 7 7 7 7 7 7 7 7 7 7 7 7 7 7 7 7 7 7 7 7 7 7 7 7 7 7 7 7 7 7 7 7 7 7 7 7 7 7 7 7 7 7 7 7 7 7 7 7 7 7 7 7 7 7 7 7 7 7 7 7 7 7 7 7 7 7 7 7 7 7 7 7 7 7 7 7 7 7 7 7 7 7 7 7 7 7 7 7 7 7 7 7 7 7 7 7 7 7 7 7 7 7 7 7 7 7 7 7 7 7 7 7 7 7 7 7 7 7 7 7 7 7 7 7 7 7 7 7 7 7 7 7 7 7 
-7 7 7 7 7 7 7 7 7 7 7 7 7 7 7 7 7 7 7 7 7 7 7 7 7 7 7 7 7 7 7 7 7 7 7 7 7 7 7 7 7 7 7 7 7 7 7 7 7 7 7 7 7 7 7 7 7 7 7 7 7 7 7 7 7 7 7 7 7 7 7 7 7 7 7 7 7 7 7 7 7 7 7 7 7 7 7 7 7 7 7 7 7 7 7 7 7 7 7 7 7 7 7 7 7 7 7 7 7 7 7 7 7 7 7 7 7 7 7 7 7 7 7 7 7 7 7 7 7 7 7 7 7 7 7 7 7 7 7 7 7 7 7 7 7 7 7 7 7 7 7 7 7 7 7 7 7 7 7 7 
-7 7 7 7 7 7 7 7 7 7 7 7 7 7 7 7 7 7 7 7 7 7 7 7 7 7 7 7 7 7 7 7 7 7 7 7 7 7 7 7 7 7 7 7 7 7 7 7 7 7 7 7 7 7 7 7 7 7 7 7 7 7 7 7 7 7 7 7 7 7 7 7 7 7 7 7 7 7 7 7 7 7 7 7 7 7 7 7 7 7 7 7 7 7 7 7 7 7 7 7 7 7 7 7 7 7 7 7 7 7 7 7 7 7 7 7 7 7 7 7 7 7 7 7 7 7 7 7 7 7 7 7 7 7 7 7 7 7 7 7 7 7 7 7 7 7 7 7 7 7 7 7 7 7 7 7 7 7 7 7 
-7 7 7 7 7 7 7 7 7 7 7 7 7 7 7 7 7 7 7 7 7 7 7 7 7 7 7 7 7 7 7 7 7 7 7 7 7 7 7 7 7 7 7 7 7 7 7 7 7 7 7 7 7 7 7 7 7 7 7 7 7 7 7 7 7 7 7 7 7 7 7 7 7 7 7 7 7 7 7 7 7 7 7 7 7 7 7 7 7 7 7 7 7 7 7 7 7 7 7 7 7 7 7 7 7 7 7 7 7 7 7 7 7 7 7 7 7 7 7 7 7 7 7 7 7 7 7 7 7 7 7 7 7 7 7 7 7 7 7 7 7 7 7 7 7 7 7 7 7 7 7 7 7 7 7 7 7 7 7 7 
-7 7 7 7 7 7 7 7 7 7 7 7 7 7 7 7 7 7 7 7 7 7 7 7 7 7 7 7 7 7 7 7 7 7 7 7 7 7 7 7 7 7 7 7 7 7 7 7 7 7 7 7 7 7 7 7 7 7 7 7 7 7 7 7 7 7 7 7 7 7 7 7 7 7 7 7 7 7 7 7 7 7 7 7 7 7 7 7 7 7 7 7 7 7 7 7 7 7 7 7 7 7 7 7 7 7 7 7 7 7 7 7 7 7 7 7 7 7 7 7 7 7 7 7 7 7 7 7 7 7 7 7 7 7 7 7 7 7 7 7 7 7 7 7 7 7 7 7 7 7 7 7 7 7 7 7 7 7 7 7 
-7 7 7 7 7 7 7 7 7 7 7 7 7 7 7 7 7 7 7 7 7 7 7 7 7 7 7 7 7 7 7 7 7 7 7 7 7 7 7 7 7 7 7 7 7 7 7 7 7 7 7 7 7 7 7 7 7 7 7 7 7 7 7 7 7 7 7 7 7 7 7 7 7 7 7 7 7 7 7 7 7 7 7 7 7 7 7 7 7 7 7 7 7 7 7 7 7 7 7 7 7 7 7 7 7 7 7 7 7 7 7 7 7 7 7 7 7 7 7 7 7 7 7 7 7 7 7 7 7 7 7 7 7 7 7 7 7 7 7 7 7 7 7 7 7 7 7 7 7 7 7 7 7 7 7 7 7 7 7 7 
-7 7 7 7 7 7 7 7 7 7 7 7 7 7 7 7 7 7 7 7 7 7 7 7 7 7 7 7 7 7 7 7 7 7 7 7 7 7 7 7 7 7 7 7 7 7 7 7 7 7 7 7 7 7 7 7 7 7 7 7 7 7 7 7 7 7 7 7 7 7 7 7 7 7 7 7 7 7 7 7 7 7 7 7 7 7 7 7 7 7 7 7 7 7 7 7 7 7 7 7 7 7 7 7 7 7 7 7 7 7 7 7 7 7 7 7 7 7 7 7 7 7 7 7 7 7 7 7 7 7 7 7 7 7 7 7 7 7 7 7 7 7 7 7 7 7 7 7 7 7 7 7 7 7 7 7 7 7 7 7 
-7 7 7 7 7 7 7 7 7 7 7 7 7 7 7 7 7 7 7 7 7 7 7 7 7 7 7 7 7 7 7 7 7 7 7 7 7 7 7 7 7 7 7 7 7 7 7 7 7 7 7 7 7 7 7 7 7 7 7 7 7 7 7 7 7 7 7 7 7 7 7 7 7 7 7 7 7 7 7 7 7 7 7 7 7 7 7 7 7 7 7 7 7 7 7 7 7 7 7 7 7 7 7 7 7 7 7 7 7 7 7 7 7 7 7 7 7 7 7 7 7 7 7 7 7 7 7 7 7 7 7 7 7 7 7 7 7 7 7 7 7 7 7 7 7 7 7 7 7 7 7 7 7 7 7 7 7 7 7 7 
-7 7 7 7 7 7 7 7 7 7 7 7 7 7 7 7 7 7 7 7 7 7 7 7 7 7 7 7 7 7 7 7 7 7 7 7 7 7 7 7 7 7 7 7 7 7 7 7 7 7 7 7 7 7 7 7 7 7 7 7 7 7 7 7 7 7 7 7 7 7 7 7 7 7 7 7 7 7 7 7 7 7 7 7 7 7 7 7 7 7 7 7 7 7 7 7 7 7 7 7 7 7 7 7 7 7 7 7 7 7 7 7 7 7 7 7 7 7 7 7 7 7 7 7 7 7 7 7 7 7 7 7 7 7 7 7 7 7 7 7 7 7 7 7 7 7 7 7 7 7 7 7 7 7 7 7 7 7 7 7 
-7 7 7 7 7 7 7 7 7 7 7 7 7 7 7 7 7 7 7 7 7 7 7 7 7 7 7 7 7 7 7 7 7 7 7 7 7 7 7 7 7 7 7 7 7 7 7 7 7 7 7 7 7 7 7 7 7 7 7 7 7 7 7 7 7 7 7 7 7 7 7 7 7 7 7 7 7 7 7 7 7 7 7 7 7 7 7 7 7 7 7 7 7 7 7 7 7 7 7 7 7 7 7 7 7 7 7 7 7 7 7 7 7 7 7 7 7 7 7 7 7 7 7 7 7 7 7 7 7 7 7 7 7 7 7 7 7 7 7 7 7 7 7 7 7 7 7 7 7 7 7 7 7 7 7 7 7 7 7 7 
-7 7 7 7 7 7 7 7 7 7 7 7 7 7 7 7 7 7 7 7 7 7 7 7 7 7 7 7 7 7 7 7 7 7 7 7 7 7 7 7 7 7 7 7 7 7 7 7 7 7 7 7 7 7 7 7 7 7 7 7 7 7 7 7 7 7 7 7 7 7 7 7 7 7 7 7 7 7 7 7 7 7 7 7 7 7 7 7 7 7 7 7 7 7 7 7 7 7 7 7 7 7 7 7 7 7 7 7 7 7 7 7 7 7 7 7 7 7 7 7 7 7 7 7 7 7 7 7 7 7 7 7 7 7 7 7 7 7 7 7 7 7 7 7 7 7 7 7 7 7 7 7 7 7 7 7 7 7 7 7 
-7 7 7 7 7 7 7 7 7 7 7 7 7 7 7 7 7 7 7 7 7 7 7 7 7 7 7 7 7 7 7 7 7 7 7 7 7 7 7 7 7 7 7 7 7 7 7 7 7 7 7 7 7 7 7 7 7 7 7 7 7 7 7 7 7 7 7 7 7 7 7 7 7 7 7 7 7 7 7 7 7 7 7 7 7 7 7 7 7 7 7 7 7 7 7 7 7 7 7 7 7 7 7 7 7 7 7 7 7 7 7 7 7 7 7 7 7 7 7 7 7 7 7 7 7 7 7 7 7 7 7 7 7 7 7 7 7 7 7 7 7 7 7 7 7 7 7 7 7 7 7 7 7 7 7 7 7 7 7 7 
-7 7 7 7 7 7 7 7 7 7 7 7 7 7 7 7 7 7 7 7 7 7 7 7 7 7 7 7 7 7 7 7 7 7 7 7 7 7 7 7 7 7 7 7 7 7 7 7 7 7 7 7 7 7 7 7 7 7 7 7 7 7 7 7 7 7 7 7 7 7 7 7 7 7 7 7 7 7 7 7 7 7 7 7 7 7 7 7 7 7 7 7 7 7 7 7 7 7 7 7 7 7 7 7 7 7 7 7 7 7 7 7 7 7 7 7 7 7 7 7 7 7 7 7 7 7 7 7 7 7 7 7 7 7 7 7 7 7 7 7 7 7 7 7 7 7 7 7 7 7 7 7 7 7 7 7 7 7 7 7 
-7 7 7 7 7 7 7 7 7 7 7 7 7 7 7 7 7 7 7 7 7 7 7 7 7 7 7 7 7 7 7 7 7 7 7 7 7 7 7 7 7 7 7 7 7 7 7 7 7 7 7 7 7 7 7 7 7 7 7 7 7 7 7 7 7 7 7 7 7 7 7 7 7 7 7 7 7 7 7 7 7 7 7 7 7 7 7 7 7 7 7 7 7 7 7 7 7 7 7 7 7 7 7 7 7 7 7 7 7 7 7 7 7 7 7 7 7 7 7 7 7 7 7 7 7 7 7 7 7 7 7 7 7 7 7 7 7 7 7 7 7 7 7 7 7 7 7 7 7 7 7 7 7 7 7 7 7 7 7 7 
-7 7 7 7 7 7 7 7 7 7 7 7 7 7 7 7 7 7 7 7 7 7 7 7 7 7 7 7 7 7 7 7 7 7 7 7 7 7 7 7 7 7 7 7 7 7 7 7 7 7 7 7 7 7 7 7 7 7 7 7 7 7 7 7 7 7 7 7 7 7 7 7 7 7 7 7 7 7 7 7 7 7 7 7 7 7 7 7 7 7 7 7 7 7 7 7 7 7 7 7 7 7 7 7 7 7 7 7 7 7 7 7 7 7 7 7 7 7 7 7 7 7 7 7 7 7 7 7 7 7 7 7 7 7 7 7 7 7 7 7 7 7 7 7 7 7 7 7 7 7 7 7 7 7 7 7 7 7 7 7 
-7 7 7 7 7 7 7 7 7 7 7 7 7 7 7 7 7 7 7 7 7 7 7 7 7 7 7 7 7 7 7 7 7 7 7 7 7 7 7 7 7 7 7 7 7 7 7 7 7 7 7 7 7 7 7 7 7 7 7 7 7 7 7 7 7 7 7 7 7 7 7 7 7 7 7 7 7 7 7 7 7 7 7 7 7 7 7 7 7 7 7 7 7 7 7 7 7 7 7 7 7 7 7 7 7 7 7 7 7 7 7 7 7 7 7 7 7 7 7 7 7 7 7 7 7 7 7 7 7 7 7 7 7 7 7 7 7 7 7 7 7 7 7 7 7 7 7 7 7 7 7 7 7 7 7 7 7 7 7 7 
-7 7 7 7 7 7 7 7 7 7 7 7 7 7 7 7 7 7 7 7 7 7 7 7 7 7 7 7 7 7 7 7 7 7 7 7 7 7 7 7 7 7 7 7 7 7 7 7 7 7 7 7 7 7 7 7 7 7 7 7 7 7 7 7 7 7 7 7 7 7 7 7 7 7 7 7 7 7 7 7 7 7 7 7 7 7 7 7 7 7 7 7 7 7 7 7 7 7 7 7 7 7 7 7 7 7 7 7 7 7 7 7 7 7 7 7 7 7 7 7 7 7 7 7 7 7 7 7 7 7 7 7 7 7 7 7 7 7 7 7 7 7 7 7 7 7 7 7 7 7 7 7 7 7 7 7 7 7 7 7 
-7 7 7 7 7 7 7 7 7 7 7 7 7 7 7 7 7 7 7 7 7 7 7 7 7 7 7 7 7 7 7 7 7 7 7 7 7 7 7 7 7 7 7 7 7 7 7 7 7 7 7 7 7 7 7 7 7 7 7 7 7 7 7 7 7 7 7 7 7 7 7 7 7 7 7 7 7 7 7 7 7 7 7 7 7 7 7 7 7 7 7 7 7 7 7 7 7 7 7 7 7 7 7 7 7 7 7 7 7 7 7 7 7 7 7 7 7 7 7 7 7 7 7 7 7 7 7 7 7 7 7 7 7 7 7 7 7 7 7 7 7 7 7 7 7 7 7 7 7 7 7 7 7 7 7 7 7 7 7 7 
-7 7 7 7 7 7 7 7 7 7 7 7 7 7 7 7 7 7 7 7 7 7 7 7 7 7 7 7 7 7 7 7 7 7 7 7 7 7 7 7 7 7 7 7 7 7 7 7 7 7 7 7 7 7 7 7 7 7 7 7 7 7 7 7 7 7 7 7 7 7 7 7 7 7 7 7 7 7 7 7 7 7 7 7 7 7 7 7 7 7 7 7 7 7 7 7 7 7 7 7 7 7 7 7 7 7 7 7 7 7 7 7 7 7 7 7 7 7 7 7 7 7 7 7 7 7 7 7 7 7 7 7 7 7 7 7 7 7 7 7 7 7 7 7 7 7 7 7 7 7 7 7 7 7 7 7 7 7 7 7 
-7 7 7 7 7 7 7 7 7 7 7 7 7 7 7 7 7 7 7 7 7 7 7 7 7 7 7 7 7 7 7 7 7 7 7 7 7 7 7 7 7 7 7 7 7 7 7 7 7 7 7 7 7 7 7 7 7 7 7 7 7 7 7 7 7 7 7 7 7 7 7 7 7 7 7 7 7 7 7 7 7 7 7 7 7 7 7 7 7 7 7 7 7 7 7 7 7 7 7 7 7 7 7 7 7 7 7 7 7 7 7 7 7 7 7 7 7 7 7 7 7 7 7 7 7 7 7 7 7 7 7 7 7 7 7 7 7 7 7 7 7 7 7 7 7 7 7 7 7 7 7 7 7 7 7 7 7 7 7 7 
-7 7 7 7 7 7 7 7 7 7 7 7 7 7 7 7 7 7 7 7 7 7 7 7 7 7 7 7 7 7 7 7 7 7 7 7 7 7 7 7 7 7 7 7 7 7 7 7 7 7 7 7 7 7 7 7 7 7 7 7 7 7 7 7 7 7 7 7 7 7 7 7 7 7 7 7 7 7 7 7 7 7 7 7 7 7 7 7 7 7 7 7 7 7 7 7 7 7 7 7 7 7 7 7 7 7 7 7 7 7 7 7 7 7 7 7 7 7 7 7 7 7 7 7 7 7 7 7 7 7 7 7 7 7 7 7 7 7 7 7 7 7 7 7 7 7 7 7 7 7 7 7 7 7 7 7 7 7 7 7 
-7 7 7 7 7 7 7 7 7 7 7 7 7 7 7 7 7 7 7 7 7 7 7 7 7 7 7 7 7 7 7 7 7 7 7 7 7 7 7 7 7 7 7 7 7 7 7 7 7 7 7 7 7 7 7 7 7 7 7 7 7 7 7 7 7 7 7 7 7 7 7 7 7 7 7 7 7 7 7 7 7 7 7 7 7 7 7 7 7 7 7 7 7 7 7 7 7 7 7 7 7 7 7 7 7 7 7 7 7 7 7 7 7 7 7 7 7 7 7 7 7 7 7 7 7 7 7 7 7 7 7 7 7 7 7 7 7 7 7 7 7 7 7 7 7 7 7 7 7 7 7 7 7 7 7 7 7 7 7 7 
-7 7 7 7 7 7 7 7 7 7 7 7 7 7 7 7 7 7 7 7 7 7 7 7 7 7 7 7 7 7 7 7 7 7 7 7 7 7 7 7 7 7 7 7 7 7 7 7 7 7 7 7 7 7 7 7 7 7 7 7 7 7 7 7 7 7 7 7 7 7 7 7 7 7 7 7 7 7 7 7 7 7 7 7 7 7 7 7 7 7 7 7 7 7 7 7 7 7 7 7 7 7 7 7 7 7 7 7 7 7 7 7 7 7 7 7 7 7 7 7 7 7 7 7 7 7 7 7 7 7 7 7 7 7 7 7 7 7 7 7 7 7 7 7 7 7 7 7 7 7 7 7 7 7 7 7 7 7 7 7 
-7 7 7 7 7 7 7 7 7 7 7 7 7 7 7 7 7 7 7 7 7 7 7 7 7 7 7 7 7 7 7 7 7 7 7 7 7 7 7 7 7 7 7 7 7 7 7 7 7 7 7 7 7 7 7 7 7 7 7 7 7 7 7 7 7 7 7 7 7 7 7 7 7 7 7 7 7 7 7 7 7 7 7 7 7 7 7 7 7 7 7 7 7 7 7 7 7 7 7 7 7 7 7 7 7 7 7 7 7 7 7 7 7 7 7 7 7 7 7 7 7 7 7 7 7 7 7 7 7 7 7 7 7 7 7 7 7 7 7 7 7 7 7 7 7 7 7 7 7 7 7 7 7 7 7 7 7 7 7 7 
-7 7 7 7 7 7 7 7 7 7 7 7 7 7 7 7 7 7 7 7 7 7 7 7 7 7 7 7 7 7 7 7 7 7 7 7 7 7 7 7 7 7 7 7 7 7 7 7 7 7 7 7 7 7 7 7 7 7 7 7 7 7 7 7 7 7 7 7 7 7 7 7 7 7 7 7 7 7 7 7 7 7 7 7 7 7 7 7 7 7 7 7 7 7 7 7 7 7 7 7 7 7 7 7 7 7 7 7 7 7 7 7 7 7 7 7 7 7 7 7 7 7 7 7 7 7 7 7 7 7 7 7 7 7 7 7 7 7 7 7 7 7 7 7 7 7 7 7 7 7 7 7 7 7 7 7 7 7 7 7 
-7 7 7 7 7 7 7 7 7 7 7 7 7 7 7 7 7 7 7 7 7 7 7 7 7 7 7 7 7 7 7 7 7 7 7 7 7 7 7 7 7 7 7 7 7 7 7 7 7 7 7 7 7 7 7 7 7 7 7 7 7 7 7 7 7 7 7 7 7 7 7 7 7 7 7 7 7 7 7 7 7 7 7 7 7 7 7 7 7 7 7 7 7 7 7 7 7 7 7 7 7 7 7 7 7 7 7 7 7 7 7 7 7 7 7 7 7 7 7 7 7 7 7 7 7 7 7 7 7 7 7 7 7 7 7 7 7 7 7 7 7 7 7 7 7 7 7 7 7 7 7 7 7 7 7 7 7 7 7 7 
-7 7 7 7 7 7 7 7 7 7 7 7 7 7 7 7 7 7 7 7 7 7 7 7 7 7 7 7 7 7 7 7 7 7 7 7 7 7 7 7 7 7 7 7 7 7 7 7 7 7 7 7 7 7 7 7 7 7 7 7 7 7 7 7 7 7 7 7 7 7 7 7 7 7 7 7 7 7 7 7 7 7 7 7 7 7 7 7 7 7 7 7 7 7 7 7 7 7 7 7 7 7 7 7 7 7 7 7 7 7 7 7 7 7 7 7 7 7 7 7 7 7 7 7 7 7 7 7 7 7 7 7 7 7 7 7 7 7 7 7 7 7 7 7 7 7 7 7 7 7 7 7 7 7 7 7 7 7 7 7 
-7 7 7 7 7 7 7 7 7 7 7 7 7 7 7 7 7 7 7 7 7 7 7 7 7 7 7 7 7 7 7 7 7 7 7 7 7 7 7 7 7 7 7 7 7 7 7 7 7 7 7 7 7 7 7 7 7 7 7 7 7 7 7 7 7 7 7 7 7 7 7 7 7 7 7 7 7 7 7 7 7 7 7 7 7 7 7 7 7 7 7 7 7 7 7 7 7 7 7 7 7 7 7 7 7 7 7 7 7 7 7 7 7 7 7 7 7 7 7 7 7 7 7 7 7 7 7 7 7 7 7 7 7 7 7 7 7 7 7 7 7 7 7 7 7 7 7 7 7 7 7 7 7 7 7 7 7 7 7 7 
-7 7 7 7 7 7 7 7 7 7 7 7 7 7 7 7 7 7 7 7 7 7 7 7 7 7 7 7 7 7 7 7 7 7 7 7 7 7 7 7 7 7 7 7 7 7 7 7 7 7 7 7 7 7 7 7 7 7 7 7 7 7 7 7 7 7 7 7 7 7 7 7 7 7 7 7 7 7 7 7 7 7 7 7 7 7 7 7 7 7 7 7 7 7 7 7 7 7 7 7 7 7 7 7 7 7 7 7 7 7 7 7 7 7 7 7 7 7 7 7 7 7 7 7 7 7 7 7 7 7 7 7 7 7 7 7 7 7 7 7 7 7 7 7 7 7 7 7 7 7 7 7 7 7 7 7 7 7 7 7 
-7 7 7 7 7 7 7 7 7 7 7 7 7 7 7 7 7 7 7 7 7 7 7 7 7 7 7 7 7 7 7 7 7 7 7 7 7 7 7 7 7 7 7 7 7 7 7 7 7 7 7 7 7 7 7 7 7 7 7 7 7 7 7 7 7 7 7 7 7 7 7 7 7 7 7 7 7 7 7 7 7 7 7 7 7 7 7 7 7 7 7 7 7 7 7 7 7 7 7 7 7 7 7 7 7 7 7 7 7 7 7 7 7 7 7 7 7 7 7 7 7 7 7 7 7 7 7 7 7 7 7 7 7 7 7 7 7 7 7 7 7 7 7 7 7 7 7 7 7 7 7 7 7 7 7 7 7 7 7 7 
-7 7 7 7 7 7 7 7 7 7 7 7 7 7 7 7 7 7 7 7 7 7 7 7 7 7 7 7 7 7 7 7 7 7 7 7 7 7 7 7 7 7 7 7 7 7 7 7 7 7 7 7 7 7 7 7 7 7 7 7 7 7 7 7 7 7 7 7 7 7 7 7 7 7 7 7 7 7 7 7 7 7 7 7 7 7 7 7 7 7 7 7 7 7 7 7 7 7 7 7 7 7 7 7 7 7 7 7 7 7 7 7 7 7 7 7 7 7 7 7 7 7 7 7 7 7 7 7 7 7 7 7 7 7 7 7 7 7 7 7 7 7 7 7 7 7 7 7 7 7 7 7 7 7 7 7 7 7 7 7 
-7 7 7 7 7 7 7 7 7 7 7 7 7 7 7 7 7 7 7 7 7 7 7 7 7 7 7 7 7 7 7 7 7 7 7 7 7 7 7 7 7 7 7 7 7 7 7 7 7 7 7 7 7 7 7 7 7 7 7 7 7 7 7 7 7 7 7 7 7 7 7 7 7 7 7 7 7 7 7 7 7 7 7 7 7 7 7 7 7 7 7 7 7 7 7 7 7 7 7 7 7 7 7 7 7 7 7 7 7 7 7 7 7 7 7 7 7 7 7 7 7 7 7 7 7 7 7 7 7 7 7 7 7 7 7 7 7 7 7 7 7 7 7 7 7 7 7 7 7 7 7 7 7 7 7 7 7 7 7 7 
-7 7 7 7 7 7 7 7 7 7 7 7 7 7 7 7 7 7 7 7 7 7 7 7 7 7 7 7 7 7 7 7 7 7 7 7 7 7 7 7 7 7 7 7 7 7 7 7 7 7 7 7 7 7 7 7 7 7 7 7 7 7 7 7 7 7 7 7 7 7 7 7 7 7 7 7 7 7 7 7 7 7 7 7 7 7 7 7 7 7 7 7 7 7 7 7 7 7 7 7 7 7 7 7 7 7 7 7 7 7 7 7 7 7 7 7 7 7 7 7 7 7 7 7 7 7 7 7 7 7 7 7 7 7 7 7 7 7 7 7 7 7 7 7 7 7 7 7 7 7 7 7 7 7 7 7 7 7 7 7 
-7 7 7 7 7 7 7 7 7 7 7 7 7 7 7 7 7 7 7 7 7 7 7 7 7 7 7 7 7 7 7 7 7 7 7 7 7 7 7 7 7 7 7 7 7 7 7 7 7 7 7 7 7 7 7 7 7 7 7 7 7 7 7 7 7 7 7 7 7 7 7 7 7 7 7 7 7 7 7 7 7 7 7 7 7 7 7 7 7 7 7 7 7 7 7 7 7 7 7 7 7 7 7 7 7 7 7 7 7 7 7 7 7 7 7 7 7 7 7 7 7 7 7 7 7 7 7 7 7 7 7 7 7 7 7 7 7 7 7 7 7 7 7 7 7 7 7 7 7 7 7 7 7 7 7 7 7 7 7 7 
-7 7 7 7 7 7 7 7 7 7 7 7 7 7 7 7 7 7 7 7 7 7 7 7 7 7 7 7 7 7 7 7 7 7 7 7 7 7 7 7 7 7 7 7 7 7 7 7 7 7 7 7 7 7 7 7 7 7 7 7 7 7 7 7 7 7 7 7 7 7 7 7 7 7 7 7 7 7 7 7 7 7 7 7 7 7 7 7 7 7 7 7 7 7 7 7 7 7 7 7 7 7 7 7 7 7 7 7 7 7 7 7 7 7 7 7 7 7 7 7 7 7 7 7 7 7 7 7 7 7 7 7 7 7 7 7 7 7 7 7 7 7 7 7 7 7 7 7 7 7 7 7 7 7 7 7 7 7 7 7 
-7 7 7 7 7 7 7 7 7 7 7 7 7 7 7 7 7 7 7 7 7 7 7 7 7 7 7 7 7 7 7 7 7 7 7 7 7 7 7 7 7 7 7 7 7 7 7 7 7 7 7 7 7 7 7 7 7 7 7 7 7 7 7 7 7 7 7 7 7 7 7 7 7 7 7 7 7 7 7 7 7 7 7 7 7 7 7 7 7 7 7 7 7 7 7 7 7 7 7 7 7 7 7 7 7 7 7 7 7 7 7 7 7 7 7 7 7 7 7 7 7 7 7 7 7 7 7 7 7 7 7 7 7 7 7 7 7 7 7 7 7 7 7 7 7 7 7 7 7 7 7 7 7 7 7 7 7 7 7 7 
-7 7 7 7 7 7 7 7 7 7 7 7 7 7 7 7 7 7 7 7 7 7 7 7 7 7 7 7 7 7 7 7 7 7 7 7 7 7 7 7 7 7 7 7 7 7 7 7 7 7 7 7 7 7 7 7 7 7 7 7 7 7 7 7 7 7 7 7 7 7 7 7 7 7 7 7 7 7 7 7 7 7 7 7 7 7 7 7 7 7 7 7 7 7 7 7 7 7 7 7 7 7 7 7 7 7 7 7 7 7 7 7 7 7 7 7 7 7 7 7 7 7 7 7 7 7 7 7 7 7 7 7 7 7 7 7 7 7 7 7 7 7 7 7 7 7 7 7 7 7 7 7 7 7 7 7 7 7 7 7 
-7 7 7 7 7 7 7 7 7 7 7 7 7 7 7 7 7 7 7 7 7 7 7 7 7 7 7 7 7 7 7 7 7 7 7 7 7 7 7 7 7 7 7 7 7 7 7 7 7 7 7 7 7 7 7 7 7 7 7 7 7 7 7 7 7 7 7 7 7 7 7 7 7 7 7 7 7 7 7 7 7 7 7 7 7 7 7 7 7 7 7 7 7 7 7 7 7 7 7 7 7 7 7 7 7 7 7 7 7 7 7 7 7 7 7 7 7 7 7 7 7 7 7 7 7 7 7 7 7 7 7 7 7 7 7 7 7 7 7 7 7 7 7 7 7 7 7 7 7 7 7 7 7 7 7 7 7 7 7 7 
-7 7 7 7 7 7 7 7 7 7 7 7 7 7 7 7 7 7 7 7 7 7 7 7 7 7 7 7 7 7 7 7 7 7 7 7 7 7 7 7 7 7 7 7 7 7 7 7 7 7 7 7 7 7 7 7 7 7 7 7 7 7 7 7 7 7 7 7 7 7 7 7 7 7 7 7 7 7 7 7 7 7 7 7 7 7 7 7 7 7 7 7 7 7 7 7 7 7 7 7 7 7 7 7 7 7 7 7 7 7 7 7 7 7 7 7 7 7 7 7 7 7 7 7 7 7 7 7 7 7 7 7 7 7 7 7 7 7 7 7 7 7 7 7 7 7 7 7 7 7 7 7 7 7 7 7 7 7 7 7 
-7 7 7 7 7 7 7 7 7 7 7 7 7 7 7 7 7 7 7 7 7 7 7 7 7 7 7 7 7 7 7 7 7 7 7 7 7 7 7 7 7 7 7 7 7 7 7 7 7 7 7 7 7 7 7 7 7 7 7 7 7 7 7 7 7 7 7 7 7 7 7 7 7 7 7 7 7 7 7 7 7 7 7 7 7 7 7 7 7 7 7 7 7 7 7 7 7 7 7 7 7 7 7 7 7 7 7 7 7 7 7 7 7 7 7 7 7 7 7 7 7 7 7 7 7 7 7 7 7 7 7 7 7 7 7 7 7 7 7 7 7 7 7 7 7 7 7 7 7 7 7 7 7 7 7 7 7 7 7 7 
-7 7 7 7 7 7 7 7 7 7 7 7 7 7 7 7 7 7 7 7 7 7 7 7 7 7 7 7 7 7 7 7 7 7 7 7 7 7 7 7 7 7 7 7 7 7 7 7 7 7 7 7 7 7 7 7 7 7 7 7 7 7 7 7 7 7 7 7 7 7 7 7 7 7 7 7 7 7 7 7 7 7 7 7 7 7 7 7 7 7 7 7 7 7 7 7 7 7 7 7 7 7 7 7 7 7 7 7 7 7 7 7 7 7 7 7 7 7 7 7 7 7 7 7 7 7 7 7 7 7 7 7 7 7 7 7 7 7 7 7 7 7 7 7 7 7 7 7 7 7 7 7 7 7 7 7 7 7 7 7 
-7 7 7 7 7 7 7 7 7 7 7 7 7 7 7 7 7 7 7 7 7 7 7 7 7 7 7 7 7 7 7 7 7 7 7 7 7 7 7 7 7 7 7 7 7 7 7 7 7 7 7 7 7 7 7 7 7 7 7 7 7 7 7 7 7 7 7 7 7 7 7 7 7 7 7 7 7 7 7 7 7 7 7 7 7 7 7 7 7 7 7 7 7 7 7 7 7 7 7 7 7 7 7 7 7 7 7 7 7 7 7 7 7 7 7 7 7 7 7 7 7 7 7 7 7 7 7 7 7 7 7 7 7 7 7 7 7 7 7 7 7 7 7 7 7 7 7 7 7 7 7 7 7 7 7 7 7 7 7 7 
-7 7 7 7 7 7 7 7 7 7 7 7 7 7 7 7 7 7 7 7 7 7 7 7 7 7 7 7 7 7 7 7 7 7 7 7 7 7 7 7 7 7 7 7 7 7 7 7 7 7 7 7 7 7 7 7 7 7 7 7 7 7 7 7 7 7 7 7 7 7 7 7 7 7 7 7 7 7 7 7 7 7 7 7 7 7 7 7 7 7 7 7 7 7 7 7 7 7 7 7 7 7 7 7 7 7 7 7 7 7 7 7 7 7 7 7 7 7 7 7 7 7 7 7 7 7 7 7 7 7 7 7 7 7 7 7 7 7 7 7 7 7 7 7 7 7 7 7 7 7 7 7 7 7 7 7 7 7 7 7 
-7 7 7 7 7 7 7 7 7 7 7 7 7 7 7 7 7 7 7 7 7 7 7 7 7 7 7 7 7 7 7 7 7 7 7 7 7 7 7 7 7 7 7 7 7 7 7 7 7 7 7 7 7 7 7 7 7 7 7 7 7 7 7 7 7 7 7 7 7 7 7 7 7 7 7 7 7 7 7 7 7 7 7 7 7 7 7 7 7 7 7 7 7 7 7 7 7 7 7 7 7 7 7 7 7 7 7 7 7 7 7 7 7 7 7 7 7 7 7 7 7 7 7 7 7 7 7 7 7 7 7 7 7 7 7 7 7 7 7 7 7 7 7 7 7 7 7 7 7 7 7 7 7 7 7 7 7 7 7 7 
-7 7 7 7 7 7 7 7 7 7 7 7 7 7 7 7 7 7 7 7 7 7 7 7 7 7 7 7 7 7 7 7 7 7 7 7 7 7 7 7 7 7 7 7 7 7 7 7 7 7 7 7 7 7 7 7 7 7 7 7 7 7 7 7 7 7 7 7 7 7 7 7 7 7 7 7 7 7 7 7 7 7 7 7 7 7 7 7 7 7 7 7 7 7 7 7 7 7 7 7 7 7 7 7 7 7 7 7 7 7 7 7 7 7 7 7 7 7 7 7 7 7 7 7 7 7 7 7 7 7 7 7 7 7 7 7 7 7 7 7 7 7 7 7 7 7 7 7 7 7 7 7 7 7 7 7 7 7 7 7 
-7 7 7 7 7 7 7 7 7 7 7 7 7 7 7 7 7 7 7 7 7 7 7 7 7 7 7 7 7 7 7 7 7 7 7 7 7 7 7 7 7 7 7 7 7 7 7 7 7 7 7 7 7 7 7 7 7 7 7 7 7 7 7 7 7 7 7 7 7 7 7 7 7 7 7 7 7 7 7 7 7 7 7 7 7 7 7 7 7 7 7 7 7 7 7 7 7 7 7 7 7 7 7 7 7 7 7 7 7 7 7 7 7 7 7 7 7 7 7 7 7 7 7 7 7 7 7 7 7 7 7 7 7 7 7 7 7 7 7 7 7 7 7 7 7 7 7 7 7 7 7 7 7 7 7 7 7 7 7 7 
-7 7 7 7 7 7 7 7 7 7 7 7 7 7 7 7 7 7 7 7 7 7 7 7 7 7 7 7 7 7 7 7 7 7 7 7 7 7 7 7 7 7 7 7 7 7 7 7 7 7 7 7 7 7 7 7 7 7 7 7 7 7 7 7 7 7 7 7 7 7 7 7 7 7 7 7 7 7 7 7 7 7 7 7 7 7 7 7 7 7 7 7 7 7 7 7 7 7 7 7 7 7 7 7 7 7 7 7 7 7 7 7 7 7 7 7 7 7 7 7 7 7 7 7 7 7 7 7 7 7 7 7 7 7 7 7 7 7 7 7 7 7 7 7 7 7 7 7 7 7 7 7 7 7 7 7 7 7 7 7 
-7 7 7 7 7 7 7 7 7 7 7 7 7 7 7 7 7 7 7 7 7 7 7 7 7 7 7 7 7 7 7 7 7 7 7 7 7 7 7 7 7 7 7 7 7 7 7 7 7 7 7 7 7 7 7 7 7 7 7 7 7 7 7 7 7 7 7 7 7 7 7 7 7 7 7 7 7 7 7 7 7 7 7 7 7 7 7 7 7 7 7 7 7 7 7 7 7 7 7 7 7 7 7 7 7 7 7 7 7 7 7 7 7 7 7 7 7 7 7 7 7 7 7 7 7 7 7 7 7 7 7 7 7 7 7 7 7 7 7 7 7 7 7 7 7 7 7 7 7 7 7 7 7 7 7 7 7 7 7 7 
-7 7 7 7 7 7 7 7 7 7 7 7 7 7 7 7 7 7 7 7 7 7 7 7 7 7 7 7 7 7 7 7 7 7 7 7 7 7 7 7 7 7 7 7 7 7 7 7 7 7 7 7 7 7 7 7 7 7 7 7 7 7 7 7 7 7 7 7 7 7 7 7 7 7 7 7 7 7 7 7 7 7 7 7 7 7 7 7 7 7 7 7 7 7 7 7 7 7 7 7 7 7 7 7 7 7 7 7 7 7 7 7 7 7 7 7 7 7 7 7 7 7 7 7 7 7 7 7 7 7 7 7 7 7 7 7 7 7 7 7 7 7 7 7 7 7 7 7 7 7 7 7 7 7 7 7 7 7 7 7 
-7 7 7 7 7 7 7 7 7 7 7 7 7 7 7 7 7 7 7 7 7 7 7 7 7 7 7 7 7 7 7 7 7 7 7 7 7 7 7 7 7 7 7 7 7 7 7 7 7 7 7 7 7 7 7 7 7 7 7 7 7 7 7 7 7 7 7 7 7 7 7 7 7 7 7 7 7 7 7 7 7 7 7 7 7 7 7 7 7 7 7 7 7 7 7 7 7 7 7 7 7 7 7 7 7 7 7 7 7 7 7 7 7 7 7 7 7 7 7 7 7 7 7 7 7 7 7 7 7 7 7 7 7 7 7 7 7 7 7 7 7 7 7 7 7 7 7 7 7 7 7 7 7 7 7 7 7 7 7 7 
-7 7 7 7 7 7 7 7 7 7 7 7 7 7 7 7 7 7 7 7 7 7 7 7 7 7 7 7 7 7 7 7 7 7 7 7 7 7 7 7 7 7 7 7 7 7 7 7 7 7 7 7 7 7 7 7 7 7 7 7 7 7 7 7 7 7 7 7 7 7 7 7 7 7 7 7 7 7 7 7 7 7 7 7 7 7 7 7 7 7 7 7 7 7 7 7 7 7 7 7 7 7 7 7 7 7 7 7 7 7 7 7 7 7 7 7 7 7 7 7 7 7 7 7 7 7 7 7 7 7 7 7 7 7 7 7 7 7 7 7 7 7 7 7 7 7 7 7 7 7 7 7 7 7 7 7 7 7 7 7 
-7 7 7 7 7 7 7 7 7 7 7 7 7 7 7 7 7 7 7 7 7 7 7 7 7 7 7 7 7 7 7 7 7 7 7 7 7 7 7 7 7 7 7 7 7 7 7 7 7 7 7 7 7 7 7 7 7 7 7 7 7 7 7 7 7 7 7 7 7 7 7 7 7 7 7 7 7 7 7 7 7 7 7 7 7 7 7 7 7 7 7 7 7 7 7 7 7 7 7 7 7 7 7 7 7 7 7 7 7 7 7 7 7 7 7 7 7 7 7 7 7 7 7 7 7 7 7 7 7 7 7 7 7 7 7 7 7 7 7 7 7 7 7 7 7 7 7 7 7 7 7 7 7 7 7 7 7 7 7 7 
-7 7 7 7 7 7 7 7 7 7 7 7 7 7 7 7 7 7 7 7 7 7 7 7 7 7 7 7 7 7 7 7 7 7 7 7 7 7 7 7 7 7 7 7 7 7 7 7 7 7 7 7 7 7 7 7 7 7 7 7 7 7 7 7 7 7 7 7 7 7 7 7 7 7 7 7 7 7 7 7 7 7 7 7 7 7 7 7 7 7 7 7 7 7 7 7 7 7 7 7 7 7 7 7 7 7 7 7 7 7 7 7 7 7 7 7 7 7 7 7 7 7 7 7 7 7 7 7 7 7 7 7 7 7 7 7 7 7 7 7 7 7 7 7 7 7 7 7 7 7 7 7 7 7 7 7 7 7 7 7 
-7 7 7 7 7 7 7 7 7 7 7 7 7 7 7 7 7 7 7 7 7 7 7 7 7 7 7 7 7 7 7 7 7 7 7 7 7 7 7 7 7 7 7 7 7 7 7 7 7 7 7 7 7 7 7 7 7 7 7 7 7 7 7 7 7 7 7 7 7 7 7 7 7 7 7 7 7 7 7 7 7 7 7 7 7 7 7 7 7 7 7 7 7 7 7 7 7 7 7 7 7 7 7 7 7 7 7 7 7 7 7 7 7 7 7 7 7 7 7 7 7 7 7 7 7 7 7 7 7 7 7 7 7 7 7 7 7 7 7 7 7 7 7 7 7 7 7 7 7 7 7 7 7 7 7 7 7 7 7 7 
-7 7 7 7 7 7 7 7 7 7 7 7 7 7 7 7 7 7 7 7 7 7 7 7 7 7 7 7 7 7 7 7 7 7 7 7 7 7 7 7 7 7 7 7 7 7 7 7 7 7 7 7 7 7 7 7 7 7 7 7 7 7 7 7 7 7 7 7 7 7 7 7 7 7 7 7 7 7 7 7 7 7 7 7 7 7 7 7 7 7 7 7 7 7 7 7 7 7 7 7 7 7 7 7 7 7 7 7 7 7 7 7 7 7 7 7 7 7 7 7 7 7 7 7 7 7 7 7 7 7 7 7 7 7 7 7 7 7 7 7 7 7 7 7 7 7 7 7 7 7 7 7 7 7 7 7 7 7 7 7 
-7 7 7 7 7 7 7 7 7 7 7 7 7 7 7 7 7 7 7 7 7 7 7 7 7 7 7 7 7 7 7 7 7 7 7 7 7 7 7 7 7 7 7 7 7 7 7 7 7 7 7 7 7 7 7 7 7 7 7 7 7 7 7 7 7 7 7 7 7 7 7 7 7 7 7 7 7 7 7 7 7 7 7 7 7 7 7 7 7 7 7 7 7 7 7 7 7 7 7 7 7 7 7 7 7 7 7 7 7 7 7 7 7 7 7 7 7 7 7 7 7 7 7 7 7 7 7 7 7 7 7 7 7 7 7 7 7 7 7 7 7 7 7 7 7 7 7 7 7 7 7 7 7 7 7 7 7 7 7 7 
-7 7 7 7 7 7 7 7 7 7 7 7 7 7 7 7 7 7 7 7 7 7 7 7 7 7 7 7 7 7 7 7 7 7 7 7 7 7 7 7 7 7 7 7 7 7 7 7 7 7 7 7 7 7 7 7 7 7 7 7 7 7 7 7 7 7 7 7 7 7 7 7 7 7 7 7 7 7 7 7 7 7 7 7 7 7 7 7 7 7 7 7 7 7 7 7 7 7 7 7 7 7 7 7 7 7 7 7 7 7 7 7 7 7 7 7 7 7 7 7 7 7 7 7 7 7 7 7 7 7 7 7 7 7 7 7 7 7 7 7 7 7 7 7 7 7 7 7 7 7 7 7 7 7 7 7 7 7 7 7 
-7 7 7 7 7 7 7 7 7 7 7 7 7 7 7 7 7 7 7 7 7 7 7 7 7 7 7 7 7 7 7 7 7 7 7 7 7 7 7 7 7 7 7 7 7 7 7 7 7 7 7 7 7 7 7 7 7 7 7 7 7 7 7 7 7 7 7 7 7 7 7 7 7 7 7 7 7 7 7 7 7 7 7 7 7 7 7 7 7 7 7 7 7 7 7 7 7 7 7 7 7 7 7 7 7 7 7 7 7 7 7 7 7 7 7 7 7 7 7 7 7 7 7 7 7 7 7 7 7 7 7 7 7 7 7 7 7 7 7 7 7 7 7 7 7 7 7 7 7 7 7 7 7 7 7 7 7 7 7 7 
-7 7 7 7 7 7 7 7 7 7 7 7 7 7 7 7 7 7 7 7 7 7 7 7 7 7 7 7 7 7 7 7 7 7 7 7 7 7 7 7 7 7 7 7 7 7 7 7 7 7 7 7 7 7 7 7 7 7 7 7 7 7 7 7 7 7 7 7 7 7 7 7 7 7 7 7 7 7 7 7 7 7 7 7 7 7 7 7 7 7 7 7 7 7 7 7 7 7 7 7 7 7 7 7 7 7 7 7 7 7 7 7 7 7 7 7 7 7 7 7 7 7 7 7 7 7 7 7 7 7 7 7 7 7 7 7 7 7 7 7 7 7 7 7 7 7 7 7 7 7 7 7 7 7 7 7 7 7 7 7 
-7 7 7 7 7 7 7 7 7 7 7 7 7 7 7 7 7 7 7 7 7 7 7 7 7 7 7 7 7 7 7 7 7 7 7 7 7 7 7 7 7 7 7 7 7 7 7 7 7 7 7 7 7 7 7 7 7 7 7 7 7 7 7 7 7 7 7 7 7 7 7 7 7 7 7 7 7 7 7 7 7 7 7 7 7 7 7 7 7 7 7 7 7 7 7 7 7 7 7 7 7 7 7 7 7 7 7 7 7 7 7 7 7 7 7 7 7 7 7 7 7 7 7 7 7 7 7 7 7 7 7 7 7 7 7 7 7 7 7 7 7 7 7 7 7 7 7 7 7 7 7 7 7 7 7 7 7 7 7 7 
-7 7 7 7 7 7 7 7 7 7 7 7 7 7 7 7 7 7 7 7 7 7 7 7 7 7 7 7 7 7 7 7 7 7 7 7 7 7 7 7 7 7 7 7 7 7 7 7 7 7 7 7 7 7 7 7 7 7 7 7 7 7 7 7 7 7 7 7 7 7 7 7 7 7 7 7 7 7 7 7 7 7 7 7 7 7 7 7 7 7 7 7 7 7 7 7 7 7 7 7 7 7 7 7 7 7 7 7 7 7 7 7 7 7 7 7 7 7 7 7 7 7 7 7 7 7 7 7 7 7 7 7 7 7 7 7 7 7 7 7 7 7 7 7 7 7 7 7 7 7 7 7 7 7 7 7 7 7 7 7 
-7 7 7 7 7 7 7 7 7 7 7 7 7 7 7 7 7 7 7 7 7 7 7 7 7 7 7 7 7 7 7 7 7 7 7 7 7 7 7 7 7 7 7 7 7 7 7 7 7 7 7 7 7 7 7 7 7 7 7 7 7 7 7 7 7 7 7 7 7 7 7 7 7 7 7 7 7 7 7 7 7 7 7 7 7 7 7 7 7 7 7 7 7 7 7 7 7 7 7 7 7 7 7 7 7 7 7 7 7 7 7 7 7 7 7 7 7 7 7 7 7 7 7 7 7 7 7 7 7 7 7 7 7 7 7 7 7 7 7 7 7 7 7 7 7 7 7 7 7 7 7 7 7 7 7 7 7 7 7 7 
-`)
 tiles.setTilemap(tiles.createTilemap(
[1 lines of base64/hex data omitted]
             img`
@@ -187,6 +74,7 @@ tiles.setTilemap(tiles.createTilemap(
             [myTiles.tile0,sprites.castle.tileGrass1,sprites.castle.tileGrass2,sprites.castle.tilePath5,sprites.castle.tilePath1,sprites.castle.tilePath3,sprites.castle.tilePath2,sprites.castle.tilePath4,sprites.castle.tilePath6,sprites.castle.tilePath8,sprites.castle.tilePath7,sprites.castle.tilePath9,sprites.castle.tileDarkGrass2,sprites.castle.tileGrass3],
             TileScale.Sixteen
         ))
-scene.cameraShake(4, 2000)
-scene.centerCameraAt(120, 80)
 scene.cameraFollowSprite(mySprite)
+controller.moveSprite(mySprite)
+info.setScore(0)
+info.setLife(6)
